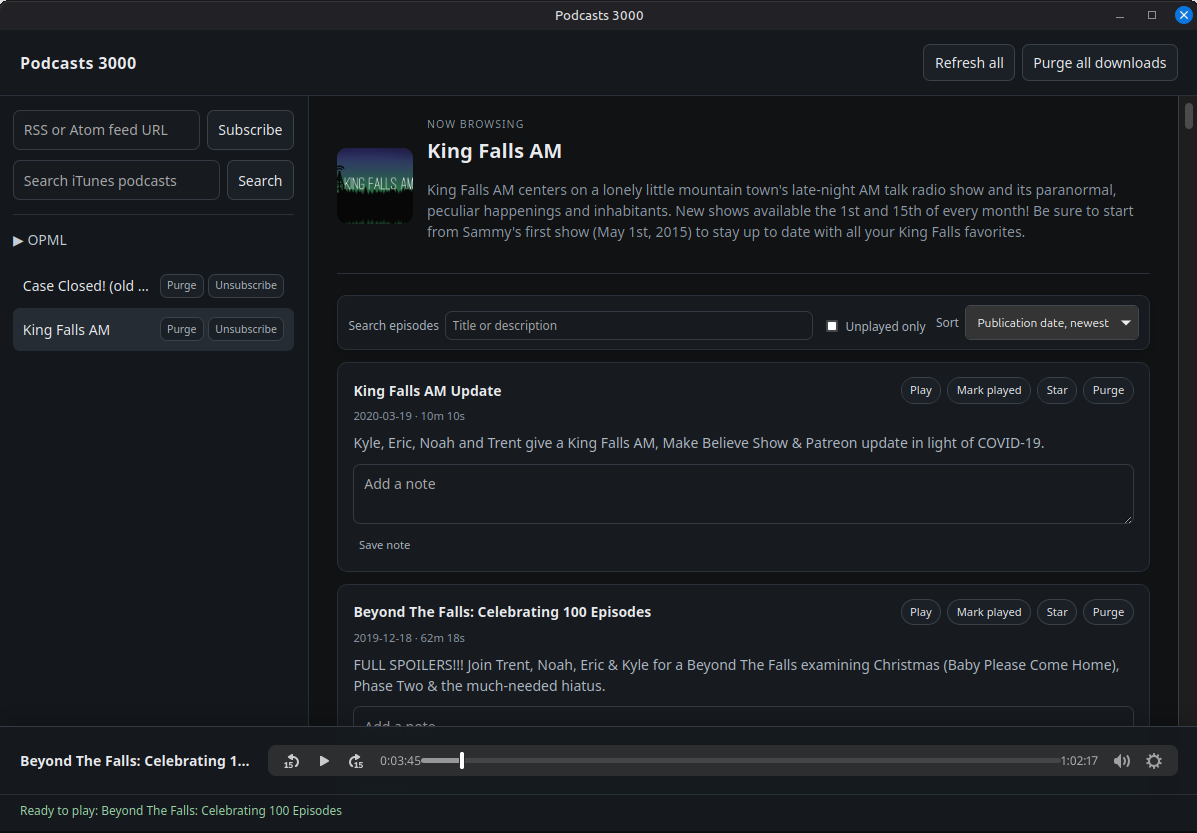
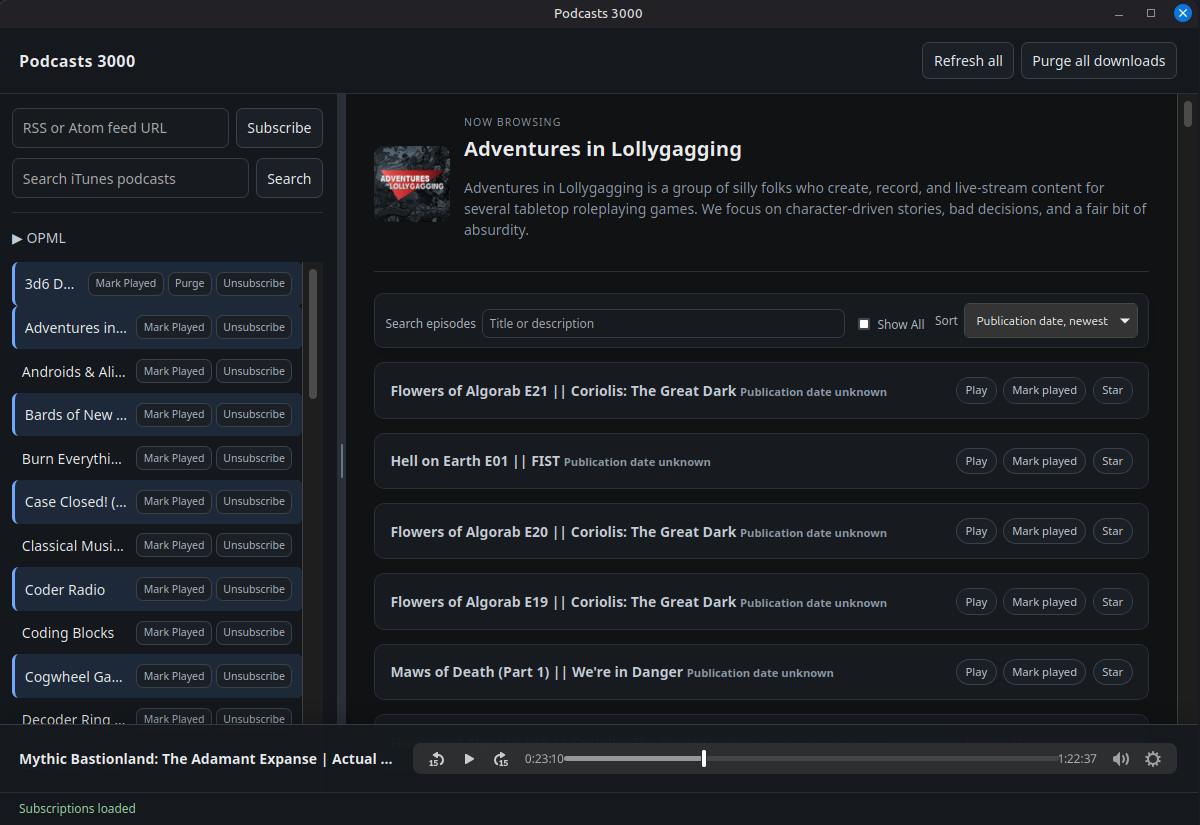
update Windows build to avoid console/terminal creation on run

diff --git a/README.md b/README.md
@@ -36,6 +36,7 @@ The package path starts with `./` (a relative path), not `/.`:
 `go run` uses a temporary executable and does not leave a binary in the repository. Use `make build` when a persistent `podcasts3000` binary is required. `make run-dev` is available for Wails development builds.
 
 Use `make release` to create `release/podcasts3000-linux-amd64` and `release/podcasts3000-windows-amd64.exe`.
+The Windows release is linked with the GUI subsystem, so launching it does not create a console window.
 
 GitHub Actions runs the test, Wails-tagged runtime test, and vet targets on pushes and pull requests. Pushing a `v*` tag builds both release executables and publishes them to a GitHub release.
 
